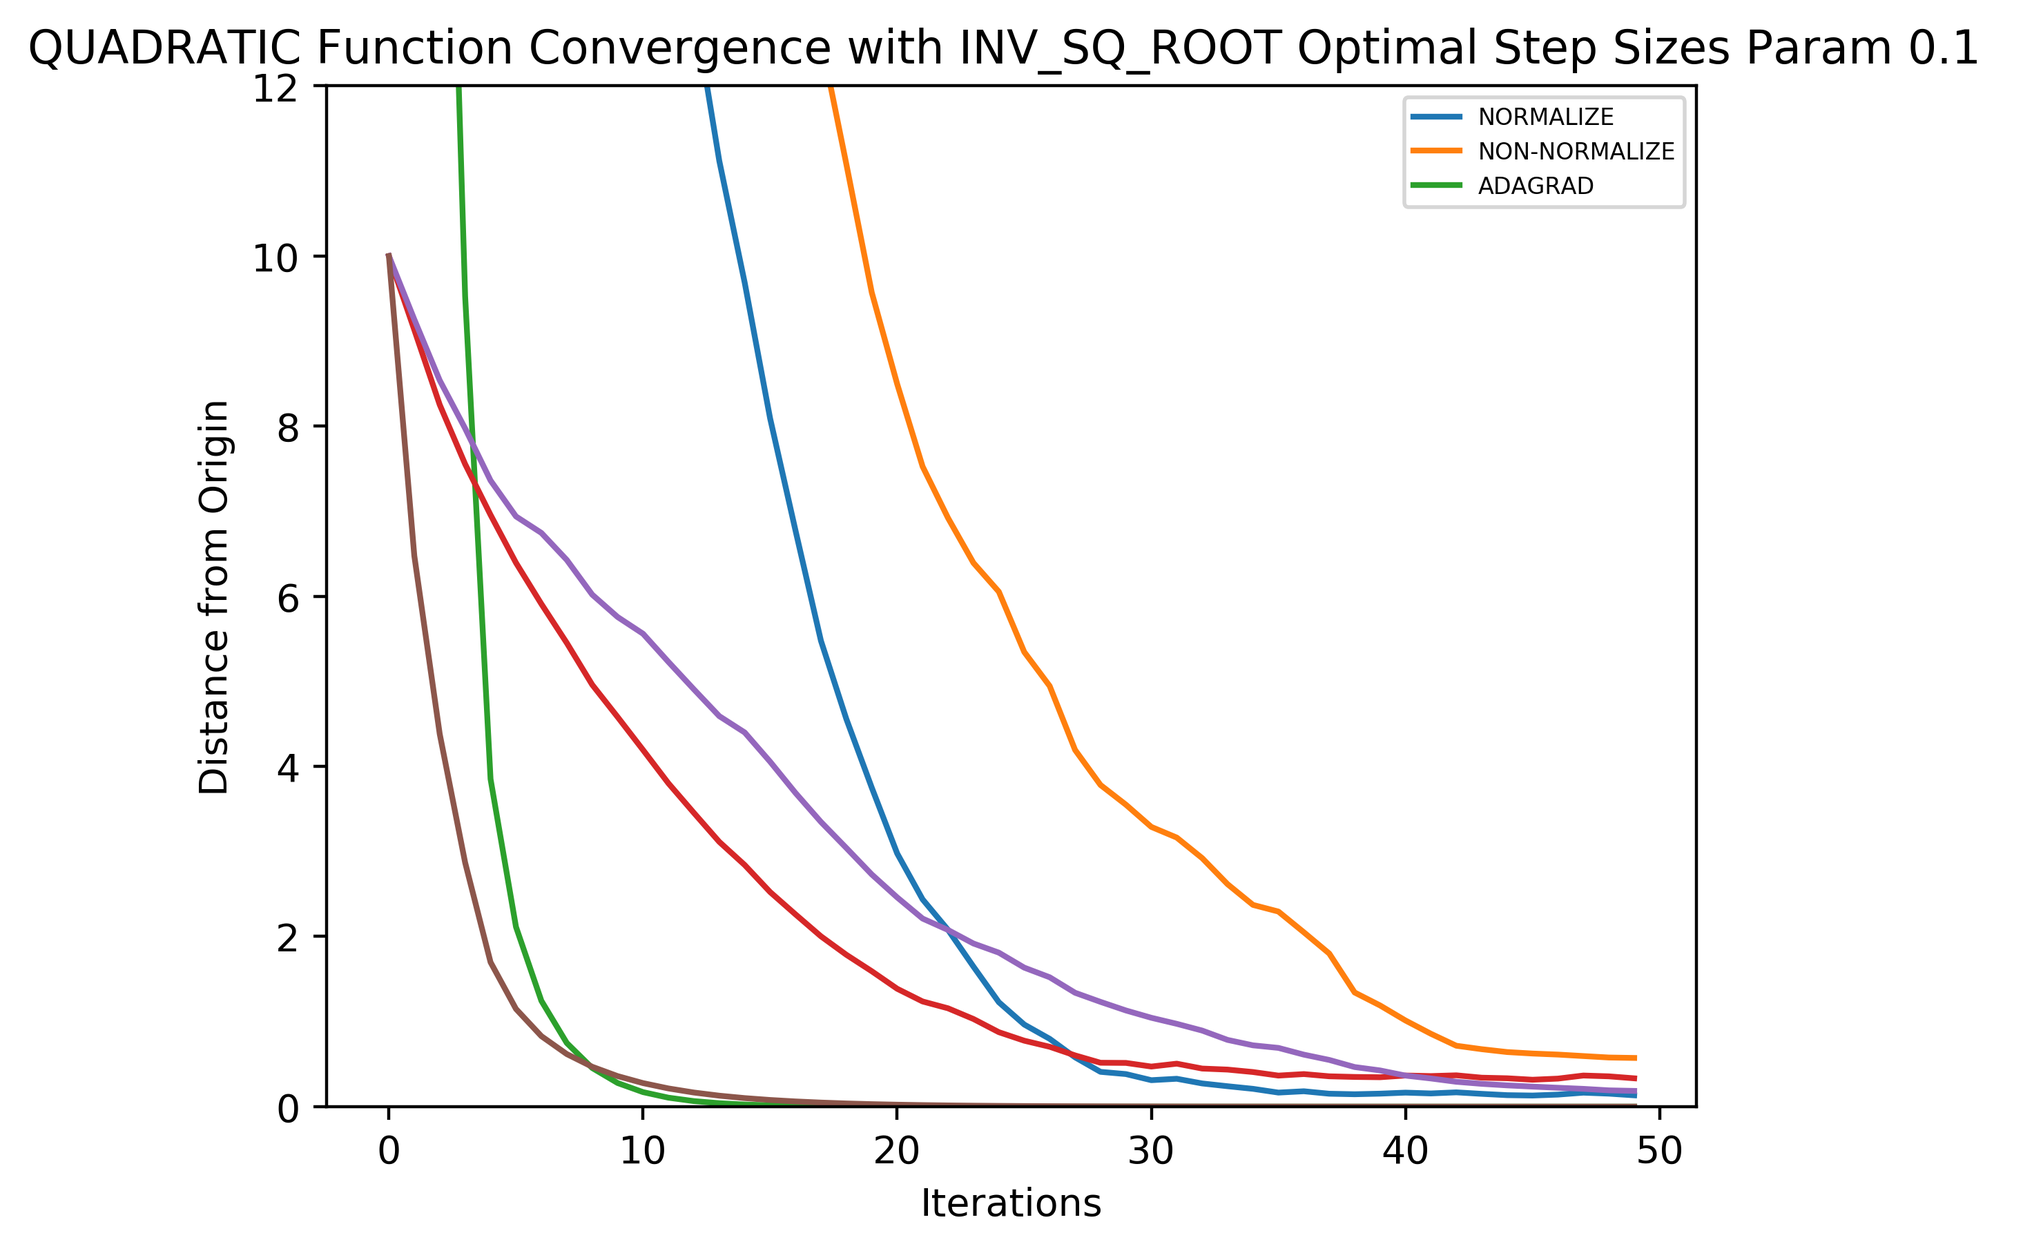
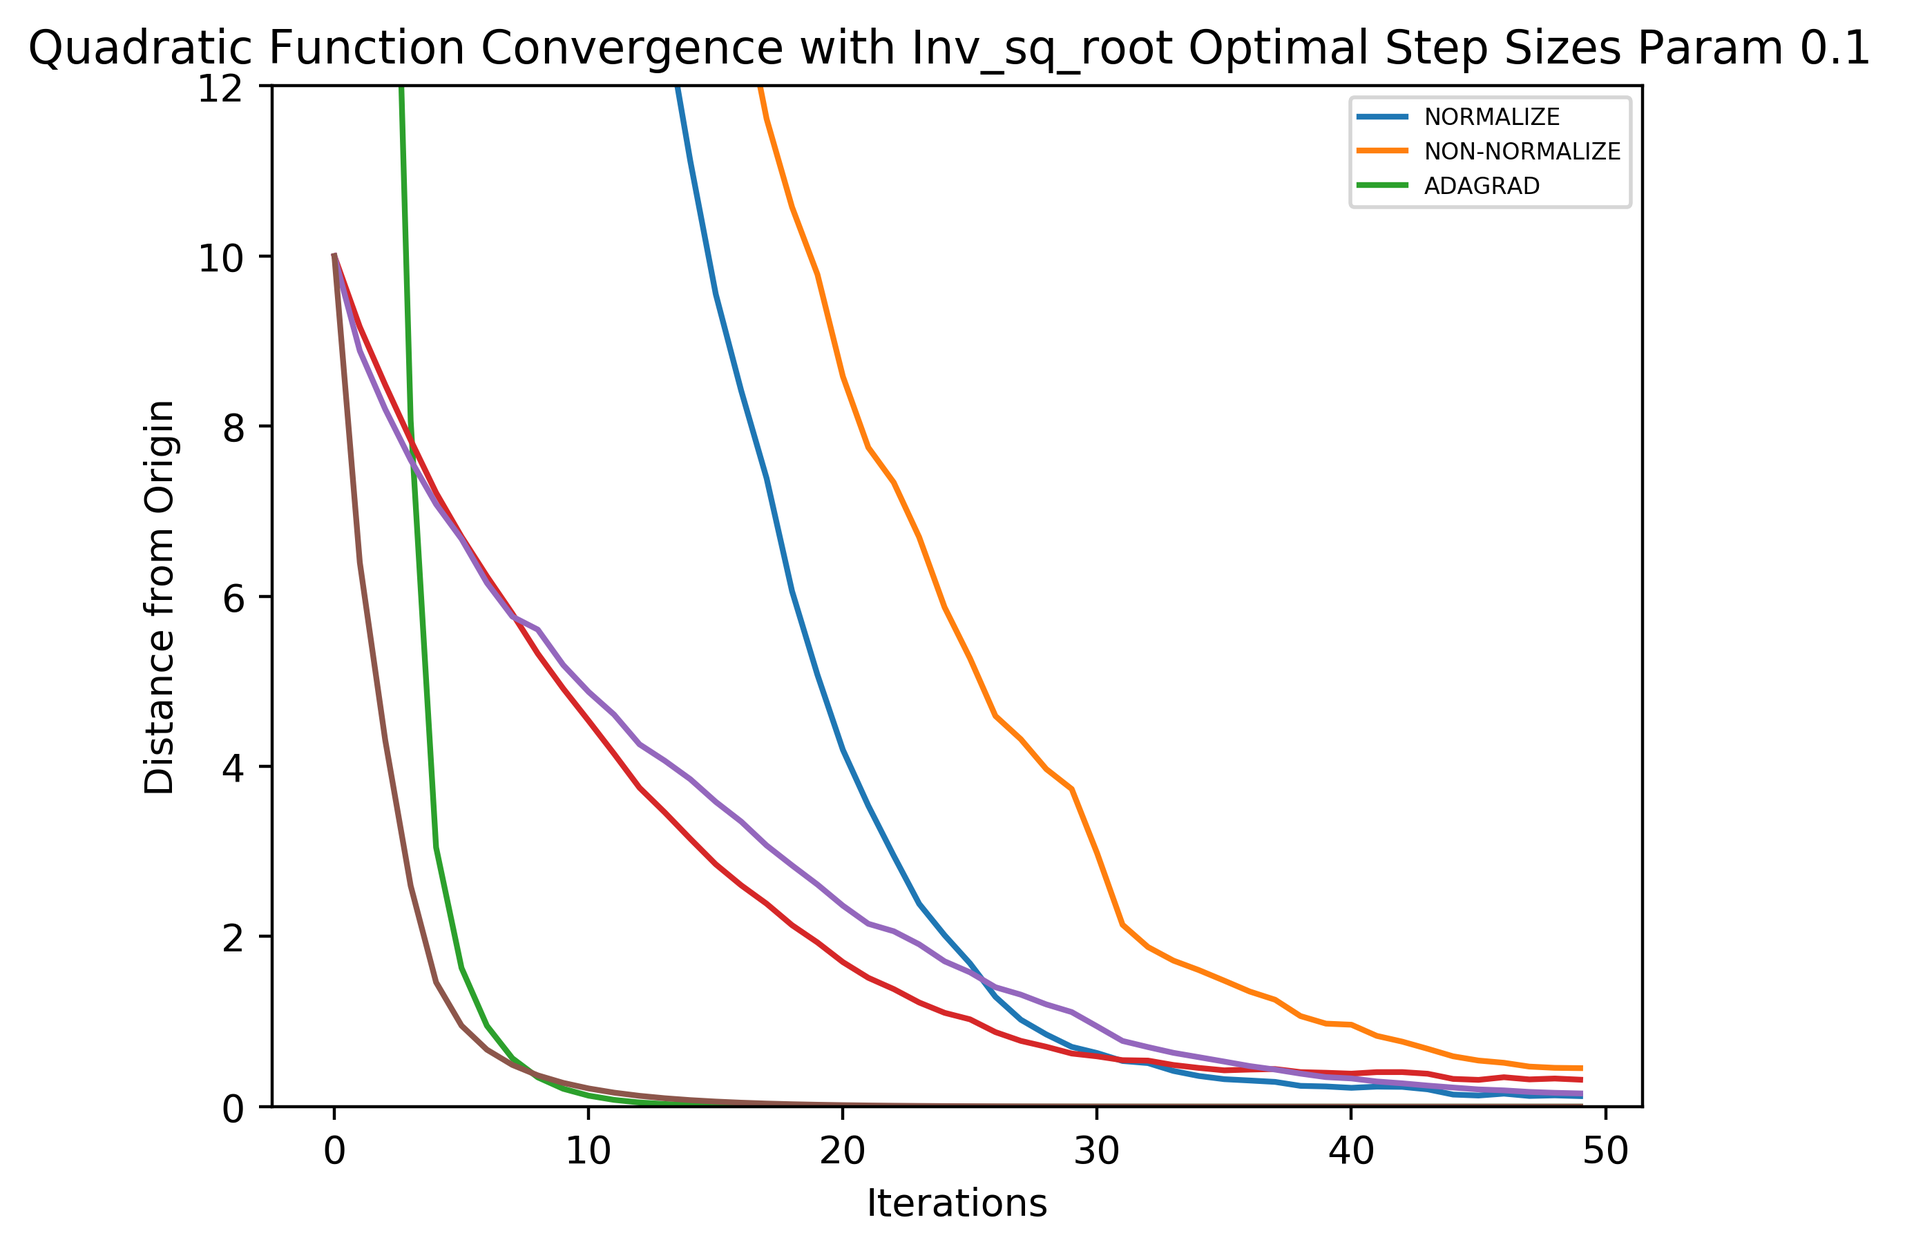
Finished cleaning up code and contour plotting functionality

diff --git a/plotting.py b/plotting.py
@@ -1,8 +1,11 @@
 from oracle import oracle
 import numpy as np
 import matplotlib.pyplot as plt
-from matplotlib import cm
+from matplotlib import cm, ticker
 from matplotlib.ticker import LinearLocator, FormatStrFormatter
+from mpl_toolkits.mplot3d import Axes3D
+
+from matplotlib.colors import LogNorm
 
 def generate_plots(params,values,plot_type="Loss",optimizer_types=None):
 
@@ -12,8 +15,8 @@ def generate_plots(params,values,plot_type="Loss",optimizer_types=None):
     oracle_params = params['ORACLE']
     main_params = params['MAIN']
 
-    function = oracle_params['FUNCTION']
-    step_size = step_params['STEP_FUNCTION']
+    function = string_format(oracle_params['FUNCTION'])
+    step_size = string_format(step_params['STEP_FUNCTION'])
     num_dimensions = main_params['DIMENSIONS']
     iterations = optimization_params['ITERATIONS']
     initialization_magnitude = main_params['INITIALIZATION_MAGNITUDE']
@@ -25,67 +28,72 @@ def generate_plots(params,values,plot_type="Loss",optimizer_types=None):
 
     # Begin file name
     file_name = "{} Function ".format(function)
+    plot_title = "{} Function ".format(function)
     file_path = "./"
 
     # If creating surface plot 
     if plot_type == "Surface" or plot_type == "Contour":
         function_oracle = oracle(oracle_params)
-        normalize_variance = params["NORMALIZE_VARIANCE"]
+        normalize_variance = string_format(params["NORMALIZE_VARIANCE"])
         file_name += "{} ".format(normalize_variance)
+        plot_title += "{} ".format(normalize_variance)
+        assert (num_dimensions == 2 and values.shape[0] == 2), "Dimensions is not equal to 2, surface plot not available."
 
     if plot_type == "Surface":
-        
-        if num_dimensions != 3:
-            print("Dimensions is not equal to 2, surface plot not available.")
-            return
-
-        # Update file path and file name    
-        file_path += "Surface_Plots/"
-        
 
         # Begin plotting
         fig = plt.figure()
         ax = fig.gca(projection='3d')
-        max_x = max(initialization_magnitude*1.1,np.abs(np.max(np.max(np.abs(values))))*1.2)
+        max_x = initialization_magnitude*1.1
         x = np.arange(-max_x,max_x,max_x/50)
         y = np.arange(-max_x,max_x,max_x/50)
         X, Y = np.meshgrid(x, y)
 
-        function_oracle = oracle(step_params)
+        function_oracle = oracle(oracle_params)
 
-        evaluated = np.array([function_oracle.query_function(np.array([[x],[y]])) for x,y in zip(np.ravel(X), np.ravel(Y))])
-        Z = evaluated.reshape(X.shape)
+        evaluated_grid = np.array([function_oracle.query_function(np.array([[x],[y]])) for x,y in zip(np.ravel(X), np.ravel(Y))])
+
+        Z = evaluated_grid.reshape(X.shape)
+        evaluated_points = np.array([function_oracle.query_function(np.array([[x],[y]])) for x,y in values.T])
         surf = ax.plot_surface(X, Y, Z, cmap=cm.coolwarm,
                                linewidth=0, antialiased=False,alpha=0.4)
-        lines = ax.scatter(values[0,:], values[1,:], loss,cmap='plasma',c=np.arange(0,values.shape[1]))
+        lines = ax.scatter(values[0,:], values[1,:], evaluated_points,cmap='plasma',c=np.arange(0,values.shape[1]))
+
+
         ax.zaxis.set_major_locator(LinearLocator(10))
         ax.zaxis.set_major_formatter(FormatStrFormatter('%.02f'))
         plt.xlabel('X')
         plt.ylabel('Y')
         
-    if plot_type == "Contour":
+    elif plot_type == "Contour":
 
-        file_path += "Contour_Plots/"
-
+        minimum = function_oracle.query_function(np.array([[0],[0]]))-1
         fig,ax = plt.subplots()
    
-        max_x = max(initialization_magnitude*1.1,np.abs(np.max(np.max(np.abs(values))))*1.2)
-        x = np.arange(-max_x,max_x,max_x/50)
-        y = np.arange(-max_x,max_x,max_x/50)
+        max_x = initialization_magnitude*1.1
+        x = np.linspace(-max_x-0.01,max_x+0.01,200)
+        y = np.linspace(-max_x-0.01,max_x+0.01,200)
         X, Y = np.meshgrid(x, y)
 
-        evaluated = np.array([function_oracle.query_function(np.array([[x],[y]])) for x,y in zip(np.ravel(X), np.ravel(Y))])
+        evaluated = np.array([function_oracle.query_function(np.array([[x],[y]])) for x,y in zip(np.ravel(X), np.ravel(Y))])-minimum
         Z = evaluated.reshape(X.shape)
-        ax.contour(X, Y, Z, levels=np.logspace(-3, 3, 25), cmap='jet')
-        #surf = ax.plot_surface(X, Y, Z, cmap=cm.coolwarm,
-    #                           linewidth=0, antialiased=False,alpha=0.4)
+
+        levels = np.array([function_oracle.query_function(np.array([[x],[0]])) for x in np.linspace(0.1,max_x*1.5,20)])-minimum
+        ax.contourf(X, Y, Z, levels=levels,cmap="viridis",norm=LogNorm())
+        ax.scatter(values[0,:],values[1,:],cmap='plasma', s=1.4,alpha=1,c=np.arange(0,values.shape[1]))
+
         for i in range(1, values.shape[1]):
             ax.annotate('', xy=(values[0,i], values[1,i]), xytext=(values[0,i-1], values[1,i-1]),
-                           arrowprops={'arrowstyle': '->', 'color': 'b', 'lw': 1},
+                           arrowprops={'arrowstyle': '-', 'color':'k',\
+                                       'lw': 1,'alpha':0.5},
                            va='center', ha='center')
 
         plt.xlabel('X')
         plt.ylabel('Y')
+        plt.ylim(ymin=-max_x)
+        plt.ylim(ymax=max_x)
+        plt.xlim(xmin=-max_x)
+        plt.xlim(xmax=max_x)
 
     else:
 
@@ -101,24 +109,36 @@ def generate_plots(params,values,plot_type="Loss",optimizer_types=None):
             plt.ylim(ymin=0)
             plt.ylim(ymax=12)
 
+        plt.legend(optimizer_types, loc='upper right', prop={'size': 6})
 
     # Add rest of file name
-    file_name = "{} Step Sizes dims {} iters {} mag {} nu {} queries {} param {} cond num {}".\
+    file_name += "{} Step Sizes dims {} iters {} mag {} nu {} queries {} param {} cond num {}".\
     format(step_size,num_dimensions,iterations,initialization_magnitude,
             nu,queries,function_param,condition_num)
     
     # Update file path and plot title
     if step_params["OPTIMAL"]:
-        plot_title = '{} Function Convergence with {} Optimal Step Sizes Param {} '.\
-            format(function,step_size,function_param)
+        plot_title += 'Convergence with {} Optimal Step Sizes Param {} '.\
+            format(step_size,function_param)
         file_path += "Optimal/"
     else:
         file_name += " step mag {}".format(initial_step_magnitude)
-        plot_title = '{} Function Convergence with {} Step Sizes Param {} Init Step Mag {}'.\
-            format(function,step_size,function_param,initial_step_magnitude)
-    file_path += plot_type.replace(" ", "_")+"_Curves/"
+        plot_title = 'Convergence with {} Step Sizes Param {} Init Step Mag {}'.\
+            format(step_size,function_param,initial_step_magnitude)
+    file_path += plot_type.replace(" ", "_")+"_Plots/"
 
     plt.title(plot_title)
-    plt.legend(optimizer_types,loc='upper right',prop={'size':6})
-    plt.savefig(file_path+file_name+".png", bbox_inches='tight',dpi=400)
 
+    plt.savefig(file_path+file_name+".png", bbox_inches='tight',dpi=400)
+    plt.clf()
+
+
+# Removes underscores and replaces them with spaces
+# Properly capitalizes each word
+def string_format(str):
+    str = str.lower()
+    if "-" in str:
+        str = " ".join([s.capitalize() for s in str.split("-")])
+    else:
+        str = " ".join([s.capitalize() for s in str.split("_")])
+    return str

diff --git a/RandomSearchAdagrad.py b/RandomSearchAdagrad.py
@@ -56,7 +56,7 @@ def step_size(iteration,normalize_variance,adagrad=False):
             if normalize_variance:
                 initial_step_magnitude = optimal_step_dict["Normalize"][function_text][step_size_type]
             else:
-                initial_step_magnitude = optimal_step_dict["Non-Normalize"][function_text][step_size_type]
+                initial_step_magnitude = optimal_step_dict["NONNORMALIZE"][function_text][step_size_type]
 
     if step_size_type == 1:
         return 1/np.sqrt(iteration+1)*initial_step_magnitude
@@ -253,7 +253,7 @@ def plot_surface(function,x_values,loss,normalize_variance):
     if normalize_variance:
         normalize_variance_text = "Normalized"
     else:
-        normalize_variance_text = "Non-Normalized"
+        normalize_variance_text = "NONNORMALIZEd"
     plt.xlabel('X')
     plt.ylabel('Y')
     if optimal:
@@ -398,13 +398,13 @@ if __name__ == '__main__':
         plt.ylim(ymin=0)
         if optimal:
             plt.title('{} Function Sigma with {} Optimal Step Sizes Param {} '.format(function_text,step_size_text,param))
-            plt.legend(['Normalized', 'Non-Normalized'], loc='upper right',prop={'size': 6})
+            plt.legend(['Normalized', 'NONNORMALIZEd'], loc='upper right',prop={'size': 6})
 
             plt.savefig("./Optimal/Sigma_Curves/{} Function {} Step Sizes Dimensions {} iters {} mag {} nu {} initializations {} calcs {} param {}.png".format(function_text,step_size_text,num_dimensions,iterations,initialization_magnitude,nu,num_initializations,num_gradient_calculations,param) , bbox_inches='tight',dpi=400)
         else:
 
             plt.title('{} Function Sigma with {} Step Sizes Param {} Init Step Mag {}'.format(function_text,step_size_text,param,initial_step_magnitude))
-            plt.legend(['Normalized', 'Non-Normalized'], loc='upper right',prop={'size': 6})
+            plt.legend(['Normalized', 'NONNORMALIZEd'], loc='upper right',prop={'size': 6})
 
             plt.savefig("./Sigma_Curves/Lipschitz/{} Function {} Step Sizes Dimensions {} iters {} mag {} nu {} initializations {} calcs {} param {} step mag {}.png".format(function_text,step_size_text,num_dimensions,iterations,initialization_magnitude,nu,num_initializations,num_gradient_calculations,param,initial_step_magnitude) , bbox_inches='tight',dpi=400)
         if show_plot:
@@ -421,11 +421,11 @@ if __name__ == '__main__':
     plt.ylabel('Loss')
     if optimal:
         plt.title('{} Function Convergence with {} Optimal Step Sizes Param {} '.format(function_text,step_size_text,param))
-        plt.legend(['Normalized', 'Non-Normalized','Adagrad'], loc='upper right',prop={'size': 6})
+        plt.legend(['Normalized', 'NONNORMALIZEd','Adagrad'], loc='upper right',prop={'size': 6})
         plt.savefig("./Optimal/Adagrad_Loss_Curves/{} Function {} Step Sizes Dimensions {} iters {} mag {} nu {} initializations {} calcs {} param {}.png".format(function_text,step_size_text,num_dimensions,iterations,initialization_magnitude,nu,num_initializations,num_gradient_calculations,param) , bbox_inches='tight',dpi=400)
     else:
         plt.title('{} Function Convergence with {} Step Sizes Param {} Init Step Mag {}'.format(function_text,step_size_text,param,initial_step_magnitude))
-        plt.legend(['Normalized', 'Non-Normalized','Adagrad'], loc='upper right',prop={'size': 6})
+        plt.legend(['Normalized', 'NONNORMALIZEd','Adagrad'], loc='upper right',prop={'size': 6})
         plt.savefig("./Adagrad/Loss_Curves/{} Function {} Step Sizes Dimensions {} iters {} mag {} nu {} initializations {} calcs {} param {} step mag {}.png".
                     format(function_text,step_size_text,num_dimensions,iterations,initialization_magnitude,nu,num_initializations,num_gradient_calculations,param,initial_step_magnitude) , bbox_inches='tight',dpi=400)
 
@@ -441,12 +441,12 @@ if __name__ == '__main__':
     plt.ylim(ymax=12)
     if optimal:
         plt.title('{} Function Convergence with {} Optimal Step Sizes Param {} '.format(function_text,step_size_text,param))
-        plt.legend(['Normalized', 'Non-Normalized','Adagrad'], loc='upper right',prop={'size': 6})
+        plt.legend(['Normalized', 'NONNORMALIZEd','Adagrad'], loc='upper right',prop={'size': 6})
 
         plt.savefig("./Optimal/Adagrad_Distance_From_Origin_Curves/{} Function {} Step Sizes Dimensions {} iters {} mag {} nu {} initializations {} calcs {} param {}.png".format(function_text,step_size_text,num_dimensions,iterations,initialization_magnitude,nu,num_initializations,num_gradient_calculations,param) , bbox_inches='tight',dpi=400)
     else:
         plt.title('{} Function Convergence with {} Step Sizes Param {} Init Step Mag {}'.format(function_text,step_size_text,param,initial_step_magnitude))
-        plt.legend(['Normalized', 'Non-Normalized','Adagrad'], loc='upper right',prop={'size': 6})
+        plt.legend(['Normalized', 'NONNORMALIZEd','Adagrad'], loc='upper right',prop={'size': 6})
         plt.savefig("./Adagrad/Distance_From_Origin_Curves/ Function {} Step Sizes Dimensions {} iters {} mag {} nu {} initializations {} calcs {} param {} step mag {}.png".
                     format(function_text,step_size_text,num_dimensions,iterations,initialization_magnitude,nu,num_initializations,num_gradient_calculations,param,initial_step_magnitude) , bbox_inches='tight',dpi=400)
     if show_plot:

diff --git a/main.py b/main.py
@@ -7,7 +7,6 @@
 
  '''
 import argparse
-import sys
 import numpy as np
 # from mpl_toolkits.mplot3d import Axes3D
 # import matplotlib.pyplot as plt
@@ -108,7 +107,7 @@ def parse_args():
     # Optional argument for the quadrant the initialization should lie in for graphical purposes
 def random_initialization(num_dimensions,magnitude,quadrant=None):
     if not (quadrant == None):
-        angle = np.random.rand()*(np.pi/2)+(quad-1)*(np.pi/2)
+        angle = np.random.rand()*(np.pi/2)+(quadrant-1)*(np.pi/2)
         x = np.cos(angle)
         y = np.sin(angle) 
         initialization = np.array([[x,y]]).flatten()*magnitude
@@ -134,32 +133,29 @@ if __name__ == '__main__':
     initialization_magnitude = main_params["INITIALIZATION_MAGNITUDE"]
 
     oracle = oracle(oracle_params)
+    optimizer_types = ["NORMALIZE", "NONNORMALIZE", "ADAGRAD"]
+    optimizers = [optimizer(optimization_params, step_params, optimizer_type=optimizer_type) for optimizer_type in
+                  optimizer_types]
     if main_params["SURFACE_PLOTS"] or main_params["CONTOUR_PLOTS"]:
 
         init = random_initialization(num_dimensions=num_dimensions,magnitude=initialization_magnitude,quadrant = 2)
-        normalized_optimizer = optimizer(optimization_params,optimizer_type="NORMALIZE")
-        nonnormalized_optimizer = optimizer(optimization_params,optimizer_type="NONNORMALIZE")
 
-        normalized_optimizer.optimization_step(step_params)
-        nonnormalized_optimizer.optimization_step(step_params)
+        optimizer_x = []
 
-        _,_,norm_x = normalized_optimizer.optimize(oracle=oracle,initialization = init)
-        _,_,non_norm_x = nonnormalized_optimizer.optimize(oracle=oracle,initialization = init)
-    
-        if main_params["SURFACE_PLOTS"]:
-            params["NORMALIZE_VARIANCE"] = True 
-            generate_plots(norm_x,params,plot_type="Surface")
-            params["NORMALIZE_VARIANCE"] = False 
-            generate_plots(non_norm_x,params,plot_type="Surface")
+        for curr_optimizer in optimizers:
+            _, _, x_values = curr_optimizer.optimize(oracle, init)
+            optimizer_x.append(x_values)
 
-        if main_params["CONTOUR_PLOTS"]:
-            params["NORMALIZE_VARIANCE"] = True
-            generate_plots(norm_x, params, plot_type="Contour")
-            params["NORMALIZE_VARIANCE"] = False
-            generate_plots(non_norm_x, params, plot_type="Contour")
+
+        for curr_optimizer, x_values in zip(optimizers,optimizer_x):
+            params["NORMALIZE_VARIANCE"] = curr_optimizer.optimizer_type
+            #if main_params["SURFACE_PLOTS"]:
+            generate_plots(params, x_values, plot_type="Surface")
+            if main_params["CONTOUR_PLOTS"]:
+                generate_plots(params, x_values, plot_type="Contour")
 
     iterations = optimization_params["ITERATIONS"]
-    optimizer_types = ["NORMALIZE","NON-NORMALIZE","ADAGRAD"]
+
     outputs = []
     loss = []
     dist_from_origin = []
@@ -167,7 +163,6 @@ if __name__ == '__main__':
 
         init = random_initialization(num_dimensions=num_dimensions,magnitude=initialization_magnitude)
 
-        optimizers = [optimizer(optimization_params,step_params,optimizer_type=optimizer_type) for optimizer_type in optimizer_types]
         optimizer_losses = []
         optimizer_dists = []
         for curr_optimizer in optimizers:

diff --git a/StepSizeSearch.py b/StepSizeSearch.py
@@ -239,7 +239,7 @@ def plot_surface(function,x_values,loss,normalize_variance):
     if normalize_variance:
         normalize_variance_text = "Normalized"
     else:
-        normalize_variance_text = "Non-Normalized"
+        normalize_variance_text = "NONNORMALIZEd"
     plt.xlabel('X')
     plt.ylabel('Y')
     if optimal:
@@ -399,7 +399,7 @@ if __name__ == '__main__':
     plt.ylabel('Average Loss')
 
     plt.title('{} Function Convergence with {} Step Sizes Param {}'.format(function_text,step_size_text,param))
-    plt.legend(['Normalized', 'Non-Normalized','Adagrad'], loc='upper right',prop={'size': 6})
+    plt.legend(['Normalized', 'NONNORMALIZEd','Adagrad'], loc='upper right',prop={'size': 6})
     plt.savefig("./Step_Size_Search/Loss_Curves/{} Function {} Steps max step {} Dimensions {} iters {} mag {} nu {} init {} calcs {} param {}.png".
                     format(function_text,step_size_text,end_step,num_dimensions,iterations,initialization_magnitude,nu,num_initializations,num_gradient_calculations,param) , bbox_inches='tight',dpi=400)
 
@@ -412,7 +412,7 @@ if __name__ == '__main__':
     plt.ylabel('Average Distances')
 
     plt.title('{} Function Convergence with {} Step Sizes Param {}'.format(function_text,step_size_text,param))
-    plt.legend(['Normalized', 'Non-Normalized','Adagrad'], loc='upper right',prop={'size': 6})
+    plt.legend(['Normalized', 'NONNORMALIZEd','Adagrad'], loc='upper right',prop={'size': 6})
     plt.savefig("./Step_Size_Search/Distance_From_Origin_Curves/{} Function {} Steps max step {} Dimensions {} iters {} mag {} nu {} init {} calcs {} param {}.png".
                     format(function_text,step_size_text,end_step,num_dimensions,iterations,initialization_magnitude,nu,num_initializations,num_gradient_calculations,param) , bbox_inches='tight',dpi=400)
 
@@ -425,7 +425,7 @@ if __name__ == '__main__':
         plt.ylabel('Average Function Variance')
 
         plt.title('{} Function Convergence with {} Step Sizes Param {}'.format(function_text,step_size_text,param))
-        plt.legend(['Normalized', 'Non-Normalized'], loc='upper right',prop={'size': 6})
+        plt.legend(['Normalized', 'NONNORMALIZEd'], loc='upper right',prop={'size': 6})
         plt.savefig("./Step_Size_Search/Sigma_Curves/{} Function {} Steps max step {} Dimensions {} iters {} mag {} nu {} init {} calcs {} param {}.png".
                     format(function_text,step_size_text,end_step,num_dimensions,iterations,initialization_magnitude,nu,num_initializations,num_gradient_calculations,param) , bbox_inches='tight',dpi=400)
 

diff --git a/OptimalInitialStepMagnitudes.py b/OptimalInitialStepMagnitudes.py
@@ -15,7 +15,7 @@ step_mag={
     }
     
     },
-    "NON-NORMALIZE":{
+    "NONNORMALIZE":{
     "LOG":{
     "INV_SQ_ROOT":2.9,
     "LOG":2,

diff --git a/CONSTANTS.py b/CONSTANTS.py
@@ -7,4 +7,4 @@ normalize_variance = True
 num_dimensions = 2
 
 condition_num = 2
-function_param = 0.1
+function_param = 0.001
